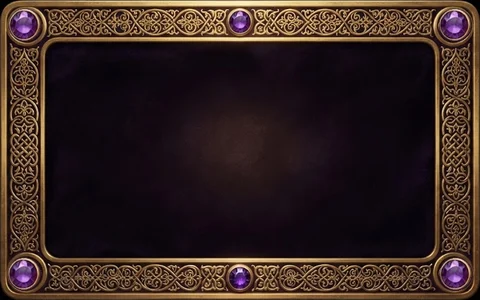
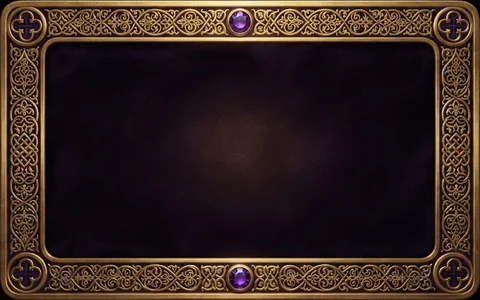
v639 : case enluminée du Codex remise d'origine (quatre-feuilles des angles gardés)
Claude-Session: https://claude.ai/code/session_01G3jW2e2fkjyWdrMoKXNbtm

diff --git a/sw.js b/sw.js
@@ -1,7 +1,7 @@
 // Service worker d'ABYSSAL : l'application et les données sont mises en cache
 // pour fonctionner hors ligne après une première visite. Incrémenter VERSION à
 // chaque publication pour que les joueurs reçoivent la mise à jour.
-const VERSION = 'abyssal-v638';
+const VERSION = 'abyssal-v639';
 const ART_CACHE = 'abyssal-media';  // images du jeu : gardées entre les versions
 const FONT_CACHE = 'abyssal-fonts';
 const CORE = [

diff --git a/js/config.js b/js/config.js
@@ -1,7 +1,7 @@
 // Configuration centrale du jeu : raretés, tables de tirage, boosters,
 // économie, variantes, progression. Toute la balance se règle ici.
 
-export const VERSION = 'v638'; // même numéro que sw.js : affiché dans Réglages > À propos
+export const VERSION = 'v639'; // même numéro que sw.js : affiché dans Réglages > À propos
 
 export const RARITIES = [
   { key: 'C',  name: 'Commune',     short: 'C',  color: '#A3ADBD' },

diff --git a/CLAUDE.md b/CLAUDE.md
@@ -33,7 +33,7 @@ Ce texte reprend tout ce qu'il faut savoir du projet. Ce fichier est lu automati
 - SQL : `supabase/12-serveur-de-partie.sql` (table `parties`, fonctions `partie_*` réservées à `service_role`), puis **`supabase/13-verrouillage.sql` seulement quand À propos dit « Progression gardée par le serveur »** (plus d'écriture directe des sauvegardes, profils, fiches d'ami et Épreuves ; le joueur garde le choix de son pseudo).
 
 ## 2. Routine de livraison
-1. Version : **ligne 4** de `js/config.js` **et** de `sw.js`, toujours le même numéro (`sed -i "4s/vX/vY/" js/config.js sw.js`). Actuellement **v638**.
+1. Version : **ligne 4** de `js/config.js` **et** de `sw.js`, toujours le même numéro (`sed -i "4s/vX/vY/" js/config.js sw.js`). Actuellement **v639**.
 2. Tests : `node --test tests/*.test.mjs` (334 tests, dont `tests/syntaxe.test.mjs` qui passe `node --check` sur chaque fichier de `js/` : les écrans ne sont importés par aucun autre test), `node tools/validate.mjs`. Si le combat ou l'équilibre change : `node tools/fuzz.mjs 300` (étage moyen ≈ 12 à 14 en normal).
 3. Vérification dans le navigateur avec Playwright (`/opt/node-tools/node_modules/playwright/index.mjs`, Chromium déjà installé), avec un serveur local `python3 -m http.server 8092` lancé dans le dossier. Tailles iPhone SE et iPhone 13. **L'écran d'ouverture attend un toucher** (« Touche l'écran pour entrer ») : dans les scripts, cliquer au milieu de l'écran (dans la fenêtre 390×664) avant tout le reste.
 4. Commit, push, réponse en français.
@@ -114,7 +114,8 @@ Ce texte reprend tout ce qu'il faut savoir du projet. Ce fichier est lu automati
 - Amis par pseudo : **fait en v500**. Versus Booster (mini-jeu à mise contre d'autres joueurs) : **fait en v513**. Duels des Sceaux en ligne : **fait en v519** ; Pacte en ligne : **fait en v523** ; Enchères en ligne et Cryptes entre amis : **faits en v525**. Ensuite : versus 1 contre 1 (Sceaux et combats façon Descente). Le propriétaire veut que le perdant **perde vraiment** une carte. Cadre conseillé si on le fait : mode « Duel à enjeu » séparé et consenti (duel normal sans perte à côté), mise de même rareté des deux côtés, favoris jamais mis en jeu, adversaires de niveau proche, accès après quelques jours et duels normaux (contre les comptes jetables et le trafic de cartes), uniquement entre joueurs présents ou amis ayant accepté (jamais sur une partie jouée par l'IA à la place d'un absent).
 
 ## 5. Décisions déjà prises
-- v638 (11 images Gemini des prompts §316-326) : **nouveau Pack du Fondateur** (`give` du pack dans `SHOP`) : cadre vivant `cx-vif-fondateur` (anneau trop épais : aminci par un script de session en coordonnées polaires, sceaux recollés ronds, `store/frames/cx-vif-fondateur-anneau-fin.jpg`, puis `frame-art.py … --hole=0.78 --suffix=4 --clip` et `back-anim.py … reflet:38 --cadre` ; attention : `back-anim.py` réutilise `store/…/<clé>-fixe.webp` s'il existe, l'effacer avant de refaire une image), dos vivant `dos-vif-fondateur` (resserré au 5:7, coins arrondis transparents), sachet vivant `sachet-vif-fondateur` (`SKIN_TOP` 63,5 : le nom s'écrit dans le disque noir), plaque `pl-fondateur`, fond `fp-fondateur`, titre et 600 obsidiennes ; aucun n'est vendu à l'Échoppe (pas dans `COSM_RARITY`, test). Anciens `dos-fondateur`, `sachet-fondateur` gardés connus, plus distribués. **Piste du Codex peinte** (`assets/codex/`, sources `store/codex/`) : chaîne d'or au centre (`cx-colonne`, rail recadré + son reflet pour se répéter), médaillons des paliers (`cx-medaillon` or atteint, `cx-medaillon-off` fer à venir), cases en `border-image` (`cx-case-libre` fer, `cx-case-enluminee` or ; **retouche** : les quatre médaillons d'angle portaient des quatre-feuilles en croix, remplacés par l'améthyste du milieu, `cx-case-enluminee-retouche.jpg`), autel de lumière derrière le palier 30 (`cx-ultime`) ; colonnes en `minmax(0, 1fr)`. Vérifié dans Chromium ; rien testé sur un vrai iPhone.
+- v639 (demande du propriétaire) : case enluminée du Codex remise d'origine : les quatre-feuilles des angles restent (améthystes ajoutées en v638 retirées). Rien testé sur un vrai iPhone.
+- v638 (11 images Gemini des prompts §316-326) : **nouveau Pack du Fondateur** (`give` du pack dans `SHOP`) : cadre vivant `cx-vif-fondateur` (anneau trop épais : aminci par un script de session en coordonnées polaires, sceaux recollés ronds, `store/frames/cx-vif-fondateur-anneau-fin.jpg`, puis `frame-art.py … --hole=0.78 --suffix=4 --clip` et `back-anim.py … reflet:38 --cadre` ; attention : `back-anim.py` réutilise `store/…/<clé>-fixe.webp` s'il existe, l'effacer avant de refaire une image), dos vivant `dos-vif-fondateur` (resserré au 5:7, coins arrondis transparents), sachet vivant `sachet-vif-fondateur` (`SKIN_TOP` 63,5 : le nom s'écrit dans le disque noir), plaque `pl-fondateur`, fond `fp-fondateur`, titre et 600 obsidiennes ; aucun n'est vendu à l'Échoppe (pas dans `COSM_RARITY`, test). Anciens `dos-fondateur`, `sachet-fondateur` gardés connus, plus distribués. **Piste du Codex peinte** (`assets/codex/`, sources `store/codex/`) : chaîne d'or au centre (`cx-colonne`, rail recadré + son reflet pour se répéter), médaillons des paliers (`cx-medaillon` or atteint, `cx-medaillon-off` fer à venir), cases en `border-image` (`cx-case-libre` fer, `cx-case-enluminee` or ; v639 : quatre-feuilles des angles gardés tels quels, à la demande du propriétaire), autel de lumière derrière le palier 30 (`cx-ultime`) ; colonnes en `minmax(0, 1fr)`. Vérifié dans Chromium ; rien testé sur un vrai iPhone.
 - v637 (retours du propriétaire sur la v636) : **Échoppe** : « À la une cette semaine » et « Nouveautés » retirés ; en tête de l'accueil, deux grandes tuiles **Obsidiennes** (les 4 paquets peints) et **Pack du Fondateur** (`.cxs-big`) ; le Pack du Fondateur n'est plus dans la page des obsidiennes : sa tuile ouvre une fenêtre qui montre chaque objet qu'il donne (`founder()` dans `js/screens/codex.js`, lu dans `give` : cadre, dos, sachet, plaque, fond, titre, obsidiennes) avec « Acheter · 4,99 € » (simulé). **Onglets Codex / Échoppe** : deux grandes tuiles illustrées sur toute la largeur (`.cx-tabs2`, bannières `bn-codex` / `bn-echoppe`, icônes `book` / `obsidienne`). **Portraits qui débordaient du cadre** (tuile Cadres, fond de profil, aperçus) : portrait rond et contenu (fin de `css/army.css`). **Tapis** : les cartes des cases des coins mordaient sur les médaillons des angles : grille resserrée, mesurée sur chaque image (Autel de l'Abysse 13 % / 9,6 %, Mammon 19 % / 14 %, Glace noire 17,5 % / 13 % ; Obsidienne inchangé), en partie et dans l'aperçu. **Prompts Gemini** (`store/boutique-cosmetiques.md` §316-326) : nouveau Pack du Fondateur (`cx-vif-fondateur`, `dos-vif-fondateur`, `sachet-vif-fondateur`, `pl-fondateur`, `fp-fondateur`, thème « Premiers Gardiens » : obsidienne, or, cire, œil du Sceau fendu ; à l'arrivée, changer `give` du pack dans `SHOP`) et piste du Codex illustrée (`cx-colonne`, `cx-medaillon`, `cx-medaillon-off`, `cx-case-libre`, `cx-case-enluminee`, `cx-ultime`). Vérifié dans Chromium ; rien testé sur un vrai iPhone.
 - v636 (« revois l'esthétique et le design du Codex et de l'Échoppe : que les menus donnent envie, que les cosmétiques soient mis en valeur, bien rangés, faciles à trouver, avec de beaux aperçus ») : **Échoppe refaite** (`shopTab` dans `js/screens/codex.js`, classes `.cxs-*` en fin de `css/army.css`, bloc v636). **Accueil** : porte-monnaie, vitrine « À la une cette semaine » (rareté et famille), rail **Nouveautés** (préfixes `NEW`), **les rayons** en tuiles illustrées (le plus bel objet du rayon, description, possédés / total ; `KINDS` : cadres, dos de cartes, sachets, plaques, fonds de profil, tapis, réactions, lots, plus Obsidiennes). **Un rayon** : barre de rayons collée en haut avec « ‹ Accueil », titre, description, compteur, filtres par rareté et « Masquer ce que j’ai » (`ui.rar`, `ui.hideOwned`), objets **rangés par rareté** sous des titres colorés ; tuiles « Équipé » / « Possédé ». **Aperçu** (`preview(id, ids)`) : en-tête teinté de la rareté (famille · rareté), **flèches pour passer à l'objet suivant du rayon**, bouton **« Équiper »** une fois possédé (`wear` : `setFrame`, `setBack`, `setSachet`, `setPlate`, `setMat`, `setFond`), tapis montré sur **un vrai plateau** avec tes cartes (`.sc-board[data-pmat]`, mêmes réglages que le jeu) et comparé au plateau actuel, fond comparé au fond actuel, cadre posé sur ton profil avec ton fond et ta plaque. **Codex** : jours restants de la saison, vitrine **« À gagner cette saison »** (toutes les récompenses cosmétiques de la voie enluminée, toucher = aperçu), et dans la piste, **toucher une récompense cosmétique ouvre son aperçu** (`seasonItem`, `data-cx="seez"`) ; l'aperçu d'une récompense du Codex dit « Voie enluminée · palier N · Introuvable à l’Échoppe » ou propose « Équiper ». 35 textes dans les 5 langues. Vérifié dans Chromium (accueil, rayon des cadres, filtres, aperçus tapis / fond / récompense du Codex, aucune erreur) ; rien testé sur un vrai iPhone.
 - v635 (capture du propriétaire, app iPhone, contre le Dévoreur : le rectangle noir revient quand il faut contrer 3 coups de suite, pas 2 ; bord **penché d'environ 2-3°**, sur la moitié gauche) : l'angle correspond à l'animation du coup reçu (`dvHit2` : `rotate(-2.5deg)`) appliquée à des cartes inclinées en **vraie 3D** (`.dv-c { transform: rotateX(var(--tilt)) }`, `perspective: 800px` sur `.dv-row`) ; une carte 3D frappée plusieurs fois de suite, avec ses effets accrochés, devient une couche que l'app ne sait plus dessiner. **Plus aucune 3D dans le combat** (fin de `css/army.css`) : `.dv-row { perspective: none }`, `.dv-c { transform: none }`, `dvHit2` et `dvHit` refaits à plat (recul et écrasement, sans rotation). Règle : jamais de `rotateX`/`perspective` ni de rotation d'une carte de combat. Vérifié dans Chromium (combats contre le Dévoreur, 6 Assauts, et la Reine des Essaims, joués par un robot, aucune erreur) ; non reproductible hors iPhone : à confirmer par le propriétaire.
